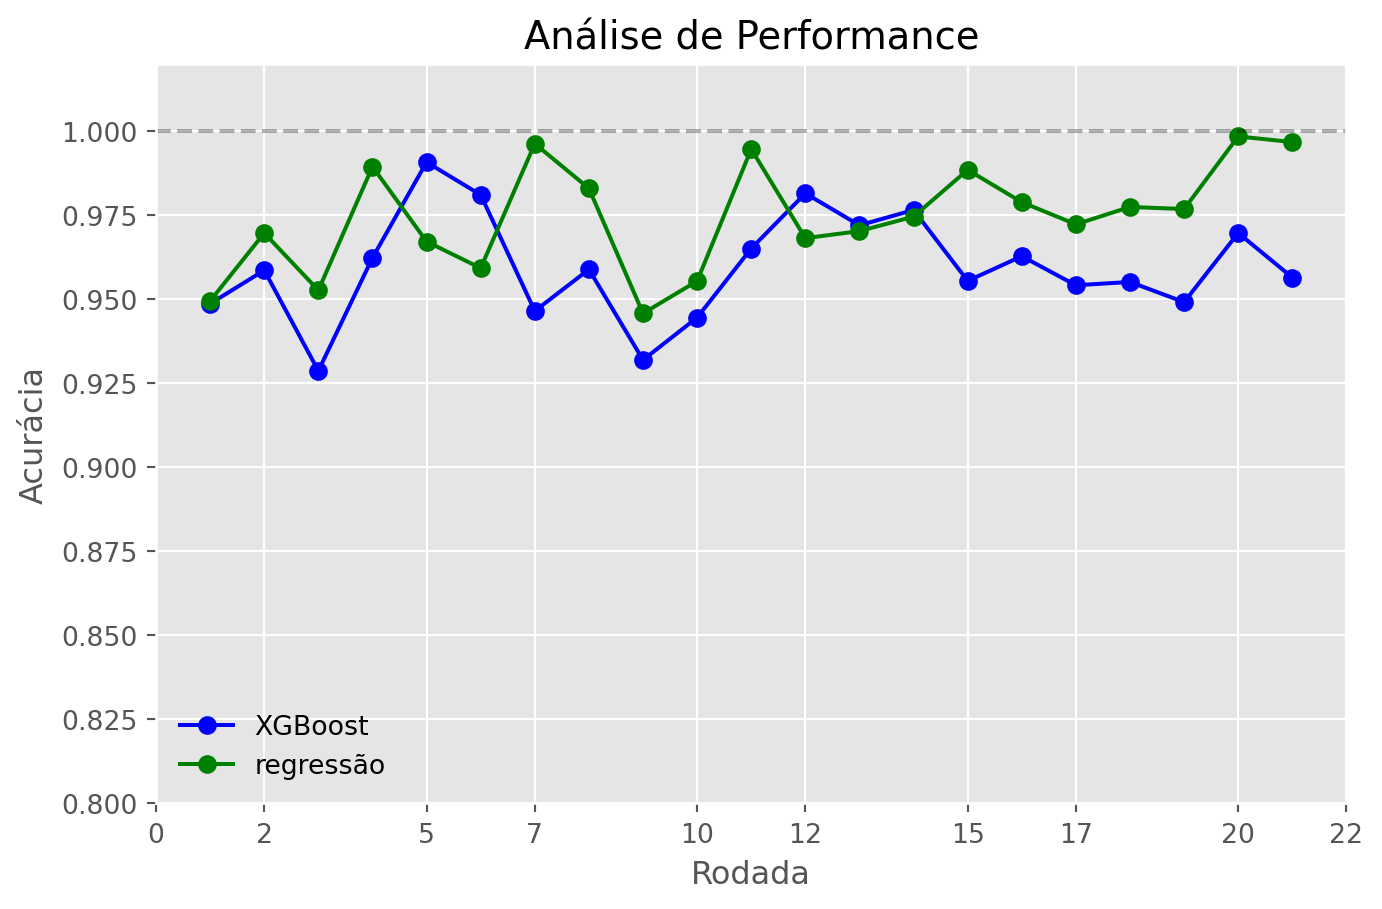
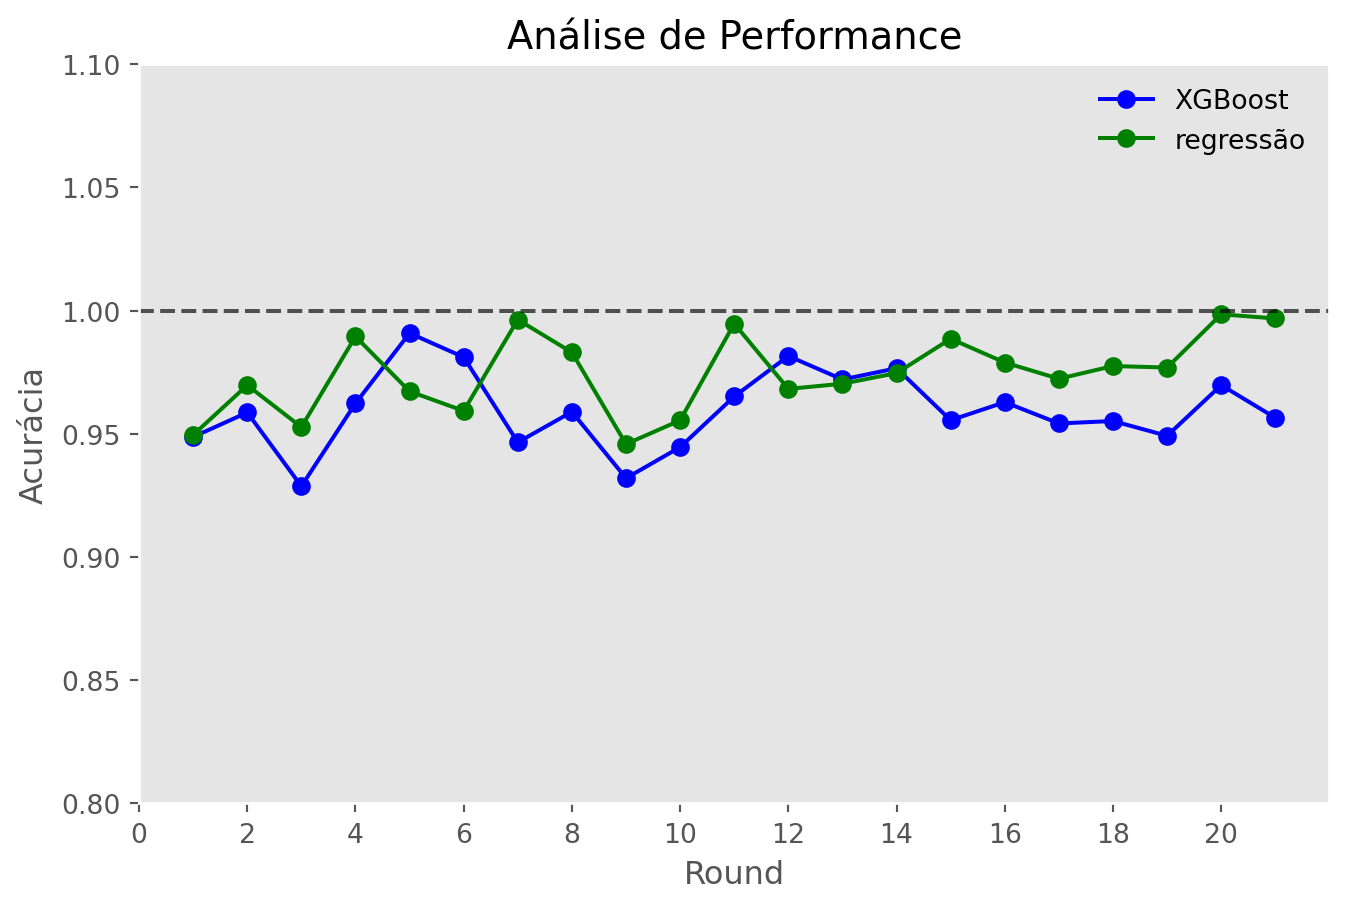
Atualizando texto:

diff --git a/projects/Conteúdos Próprios/Gradient Boosting com XGBoost Aplicado à Séries Temporais/qmd_file.html b/projects/Conteúdos Próprios/Gradient Boosting com XGBoost Aplicado à Séries Temporais/qmd_file.html
@@ -197,13 +197,13 @@ code span.wa { color: #60a0b0; font-weight: bold; font-style: italic; } /* Warni
 <p>Dessa forma, cada árvore se especializou em aprender a “consertar” os erros das arvores que vieram antes. Voltando a ideia de regressão não paramétrica, o modelo inicial dado é:</p>
 <p><span class="math display">\[y_{i} = r_{1}(x_{i}) + \epsilon_{1i} = tree_{1}(x_{i}) + \epsilon_{1i}\]</span></p>
 <p>A árvore 2 é treinanda com os resíduos <span class="math inline">\(\epsilon_{1}\)</span> da árvore 1:</p>
-<p><span class="math display">\[(y_{i}-tree_{1}) = \epsilon_{1i} = r_{2}(x_{i}) + \epsilon_{2i} = tree_{2}(x_{i}) + \epsilon_{2i}\]</span></p>
+<p><span class="math display">\[(y_{i}-tree_{1}(x_{i})) = \epsilon_{1i} = r_{2}(x_{i}) + \epsilon_{2i} = tree_{2}(x_{i}) + \epsilon_{2i}\]</span></p>
 <p>Por fim, a árvore 3 é treinada com os resíduos da árvore 2, isso é:</p>
-<p><span class="math display">\[(y_{i}-tree_{1}) - tree_{2}(x_{i}) = \epsilon_{1i} = r_{3}(x_{i}) + \epsilon_{3i} = tree_{3}(x_{i}) + \epsilon_{3i}\]</span></p>
+<p><span class="math display">\[(y_{i}-tree_{1}(x_{i})) - tree_{2}(x_{i}) = \epsilon_{1i} = r_{3}(x_{i}) + \epsilon_{3i} = tree_{3}(x_{i}) + \epsilon_{3i}\]</span></p>
 <p>A idéia intuitiva é que se adicione novas árvores conforme isso reduza os erros em teste, até que não seja possível mais entender os padrões em <span class="math inline">\(\epsilon_{q}\)</span>.</p>
-<p>Como o modelo em questão parou em <span class="math inline">\(\epsilon_{3}\)</span>, isso é, assume-se que <span class="math inline">\(\epsilon_{3}\)</span> não tem padrão, é um mero rúido, pode-se reescrever a equação acima como:</p>
-<p><span class="math display">\[y_{i}-tree_{1} - tree_{2}(x_{i}) - tree_{3}(x_{i}) = \epsilon_{3i}\]</span></p>
-<p><span class="math display">\[y_{i} = tree_{1} + tree_{2}(x_{i}) + tree_{3}(x_{i}) + \epsilon_{3i}\]</span></p>
+<p>Pode-se reescrever a equação acima como:</p>
+<p><span class="math display">\[y_{i}-tree_{1}(x_{i}) - tree_{2}(x_{i}) - tree_{3}(x_{i}) = \epsilon_{3i}\]</span></p>
+<p><span class="math display">\[y_{i} = tree_{1}(x_{i}) + tree_{2}(x_{i}) + tree_{3}(x_{i}) + \epsilon_{3i}\]</span></p>
 <p>Ou seja, a previsão da i-esima observação <span class="math inline">\(y_{i}\)</span> é a soma das previsões das árvores. Do ponto de vista da regressão não paramétrica, o modelo é dado por:</p>
 <p><span class="math display">\[y_{i} = r(x_{i}) + \epsilon_{i} = \sum^{q}_{i=1}tree_{i}(x_i) + \epsilon_{i}\]</span></p>
 <p>Onde cada árvore <span class="math inline">\(tree_i\)</span> foi treinada em paralelo.</p>
@@ -404,7 +404,7 @@ regressão vence: 16 (76.19 %)</code></pre>
 <p>Como pode ser visto, o XGBoost perfoma acima da regressão linear em somente 5 de 21 casos (23%). Será que a regressão realmente performa acima ou esse valor pode ter vindo do acaso? Bom, testa-se a hipótese de que a regressão linear tem probabilidade 50% de vencer o XGBoost.</p>
 <div class="cell" data-execution_count="14">
 <div class="cell-output cell-output-display">
-<p><img src="qmd_file_files/figure-html/cell-15-output-1.png" width="691" height="455"></p>
+<p><img src="qmd_file_files/figure-html/cell-15-output-1.png" width="674" height="455"></p>
 </div>
 </div>
 <div class="cell" data-execution_count="15">
@@ -682,14 +682,18 @@ regressão vence: 9 (42.86 %)</code></pre>
 <span id="cb26-3"><a href="#cb26-3" aria-hidden="true" tabindex="-1"></a></span>
 <span id="cb26-4"><a href="#cb26-4" aria-hidden="true" tabindex="-1"></a>ax.plot(acc_xgb_3, <span class="st">'b-o'</span>, label<span class="op">=</span><span class="st">'XGBoost'</span>)</span>
 <span id="cb26-5"><a href="#cb26-5" aria-hidden="true" tabindex="-1"></a>ax.plot(acc_reg_3, <span class="st">'g-o'</span>, label<span class="op">=</span><span class="st">'Regressão'</span>)</span>
-<span id="cb26-6"><a href="#cb26-6" aria-hidden="true" tabindex="-1"></a></span>
-<span id="cb26-7"><a href="#cb26-7" aria-hidden="true" tabindex="-1"></a>plt.ylim(<span class="dv">0</span>, <span class="fl">1.1</span>)</span>
-<span id="cb26-8"><a href="#cb26-8" aria-hidden="true" tabindex="-1"></a>plt.axhline(y<span class="op">=</span><span class="dv">1</span>, color<span class="op">=</span><span class="st">'k'</span>, alpha<span class="op">=</span><span class="fl">.5</span>, ls<span class="op">=</span><span class="st">'--'</span>)</span>
-<span id="cb26-9"><a href="#cb26-9" aria-hidden="true" tabindex="-1"></a>plt.legend(frameon<span class="op">=</span><span class="va">False</span>)</span>
-<span id="cb26-10"><a href="#cb26-10" aria-hidden="true" tabindex="-1"></a>plt.title(<span class="st">"Análise de Performance"</span>)</span>
-<span id="cb26-11"><a href="#cb26-11" aria-hidden="true" tabindex="-1"></a>plt.show()</span></code><button title="Copy to Clipboard" class="code-copy-button"><i class="bi"></i></button></pre></div>
+<span id="cb26-6"><a href="#cb26-6" aria-hidden="true" tabindex="-1"></a>plt.ylim(<span class="fl">.8</span>, <span class="fl">1.1</span>)</span>
+<span id="cb26-7"><a href="#cb26-7" aria-hidden="true" tabindex="-1"></a>plt.axhline(y<span class="op">=</span><span class="dv">1</span>, color<span class="op">=</span><span class="st">'k'</span>, alpha<span class="op">=</span><span class="fl">.5</span>, ls<span class="op">=</span><span class="st">'--'</span>)</span>
+<span id="cb26-8"><a href="#cb26-8" aria-hidden="true" tabindex="-1"></a>plt.legend(frameon<span class="op">=</span><span class="va">False</span>)</span>
+<span id="cb26-9"><a href="#cb26-9" aria-hidden="true" tabindex="-1"></a></span>
+<span id="cb26-10"><a href="#cb26-10" aria-hidden="true" tabindex="-1"></a>plt.xticks(np.arange(<span class="dv">0</span>, <span class="dv">22</span>, <span class="dv">2</span>))</span>
+<span id="cb26-11"><a href="#cb26-11" aria-hidden="true" tabindex="-1"></a>plt.xlabel(<span class="st">"Round"</span>)</span>
+<span id="cb26-12"><a href="#cb26-12" aria-hidden="true" tabindex="-1"></a>plt.ylabel(<span class="st">"Acurácia"</span>)</span>
+<span id="cb26-13"><a href="#cb26-13" aria-hidden="true" tabindex="-1"></a>plt.title(<span class="st">"Análise de Performance"</span>)</span>
+<span id="cb26-14"><a href="#cb26-14" aria-hidden="true" tabindex="-1"></a>plt.grid(<span class="va">False</span>)</span>
+<span id="cb26-15"><a href="#cb26-15" aria-hidden="true" tabindex="-1"></a>plt.show()</span></code><button title="Copy to Clipboard" class="code-copy-button"><i class="bi"></i></button></pre></div>
 <div class="cell-output cell-output-display">
-<p><img src="qmd_file_files/figure-html/cell-29-output-1.png" width="645" height="434"></p>
+<p><img src="qmd_file_files/figure-html/cell-29-output-1.png" width="674" height="455"></p>
 </div>
 </div>
 <div class="cell" data-execution_count="29">
@@ -704,11 +708,47 @@ Não há evidências para dizer que o A é o melhor modelo
 p valor:  0.332</code></pre>
 </div>
 </div>
-<p>Observa-se um p-valor de 0.4%. Isso é, é possível rejeitar a hipótese de que os dois modelos tem performance semelhante e, portanto, não foi pelo acaso que o XGBoost performou acima da regressão linear.</p>
-<p>Vizualizando o último modelo vindo da escala log pra ver como está “visualmente” o modelo:</p>
+<p>Observa-se um p-valor de 33%. Isso é, apesar de ter performado acima da Regressão Linear, não há evidências para dizermos que o XGBoost é melhor do que a Regressão. O que, em termos práticos, quer dizer que para esse dataset, uma regressão linear vai ter performance similar a regressões não paramétricas. O XGBoost pode, ainda, ganhar algumas covariáveis, defasagens e etc. De todo jeito, é um bom modelo a ter na caixa de ferramentas de cientista de dados.</p>
+<p>A título de comparação, abaixo é possível ver a performance dos 3 XGBoost treinados ao longo do texto:</p>
 <div class="cell" data-execution_count="30">
+<div class="sourceCode cell-code" id="cb29"><pre class="sourceCode python code-with-copy"><code class="sourceCode python"><span id="cb29-1"><a href="#cb29-1" aria-hidden="true" tabindex="-1"></a><span class="co">#echo: True</span></span>
+<span id="cb29-2"><a href="#cb29-2" aria-hidden="true" tabindex="-1"></a>f, ax <span class="op">=</span> plt.subplots(figsize<span class="op">=</span>(<span class="dv">8</span>, <span class="dv">5</span>))</span>
+<span id="cb29-3"><a href="#cb29-3" aria-hidden="true" tabindex="-1"></a></span>
+<span id="cb29-4"><a href="#cb29-4" aria-hidden="true" tabindex="-1"></a>ax.plot(acc_xgb_1, <span class="st">'b-o'</span>, alpha<span class="op">=</span><span class="fl">.5</span>, label<span class="op">=</span><span class="st">'XGBoost 1'</span>)</span>
+<span id="cb29-5"><a href="#cb29-5" aria-hidden="true" tabindex="-1"></a>ax.plot(acc_xgb_2, <span class="st">'r-o'</span>, alpha<span class="op">=</span><span class="fl">.5</span>, label<span class="op">=</span><span class="st">'XGBoost 2'</span>)</span>
+<span id="cb29-6"><a href="#cb29-6" aria-hidden="true" tabindex="-1"></a>ax.plot(acc_xgb_3, <span class="st">'g-o'</span>, alpha<span class="op">=</span><span class="fl">.5</span>, label<span class="op">=</span><span class="st">'XGBoost 3'</span>)</span>
+<span id="cb29-7"><a href="#cb29-7" aria-hidden="true" tabindex="-1"></a></span>
+<span id="cb29-8"><a href="#cb29-8" aria-hidden="true" tabindex="-1"></a>plt.ylim(<span class="fl">.8</span>, <span class="fl">1.1</span>)</span>
+<span id="cb29-9"><a href="#cb29-9" aria-hidden="true" tabindex="-1"></a>plt.axhline(y<span class="op">=</span><span class="dv">1</span>, color<span class="op">=</span><span class="st">'k'</span>, alpha<span class="op">=</span><span class="fl">.5</span>, ls<span class="op">=</span><span class="st">'--'</span>)</span>
+<span id="cb29-10"><a href="#cb29-10" aria-hidden="true" tabindex="-1"></a>plt.legend(frameon<span class="op">=</span><span class="va">False</span>)</span>
+<span id="cb29-11"><a href="#cb29-11" aria-hidden="true" tabindex="-1"></a></span>
+<span id="cb29-12"><a href="#cb29-12" aria-hidden="true" tabindex="-1"></a>plt.xticks(np.arange(<span class="dv">0</span>, <span class="dv">22</span>, <span class="dv">2</span>))</span>
+<span id="cb29-13"><a href="#cb29-13" aria-hidden="true" tabindex="-1"></a>plt.xlabel(<span class="st">"Round"</span>)</span>
+<span id="cb29-14"><a href="#cb29-14" aria-hidden="true" tabindex="-1"></a>plt.ylabel(<span class="st">"Acurácia"</span>)</span>
+<span id="cb29-15"><a href="#cb29-15" aria-hidden="true" tabindex="-1"></a>plt.title(<span class="st">"Análise de Performance"</span>)</span>
+<span id="cb29-16"><a href="#cb29-16" aria-hidden="true" tabindex="-1"></a>plt.grid(<span class="va">False</span>)</span>
+<span id="cb29-17"><a href="#cb29-17" aria-hidden="true" tabindex="-1"></a>plt.show()</span></code><button title="Copy to Clipboard" class="code-copy-button"><i class="bi"></i></button></pre></div>
 <div class="cell-output cell-output-display">
-<p><img src="qmd_file_files/figure-html/cell-31-output-1.png" width="658" height="435"></p>
+<p><img src="qmd_file_files/figure-html/cell-31-output-1.png" width="674" height="455"></p>
+</div>
+</div>
+<p>Ficando nítido o ganho de performance com o tratamento da tendência. Vizualizando o último modelo vindo da escala log pra ver como está “visualmente” o modelo:</p>
+<div class="cell" data-execution_count="31">
+<div class="sourceCode cell-code" id="cb30"><pre class="sourceCode python code-with-copy"><code class="sourceCode python"><span id="cb30-1"><a href="#cb30-1" aria-hidden="true" tabindex="-1"></a>y_train <span class="op">=</span> df.iloc[index[<span class="dv">0</span>]].copy()</span>
+<span id="cb30-2"><a href="#cb30-2" aria-hidden="true" tabindex="-1"></a>y_test <span class="op">=</span> df.iloc[index[<span class="dv">1</span>]].copy()</span>
+<span id="cb30-3"><a href="#cb30-3" aria-hidden="true" tabindex="-1"></a></span>
+<span id="cb30-4"><a href="#cb30-4" aria-hidden="true" tabindex="-1"></a>f, ax <span class="op">=</span> plt.subplots(figsize<span class="op">=</span>(<span class="dv">8</span>, <span class="dv">5</span>))</span>
+<span id="cb30-5"><a href="#cb30-5" aria-hidden="true" tabindex="-1"></a>plt.plot(y_train, <span class="st">'k'</span>, label<span class="op">=</span><span class="st">'Treino'</span>)</span>
+<span id="cb30-6"><a href="#cb30-6" aria-hidden="true" tabindex="-1"></a>plt.plot(y_test, <span class="st">'r--'</span>, label<span class="op">=</span><span class="st">'Teste'</span>)</span>
+<span id="cb30-7"><a href="#cb30-7" aria-hidden="true" tabindex="-1"></a>plt.plot(y_test.index, y_xgb_pred[<span class="op">-</span><span class="dv">12</span>:], <span class="st">'b--'</span>, label<span class="op">=</span><span class="st">'XGBoost'</span>)</span>
+<span id="cb30-8"><a href="#cb30-8" aria-hidden="true" tabindex="-1"></a></span>
+<span id="cb30-9"><a href="#cb30-9" aria-hidden="true" tabindex="-1"></a>plt.plot(y_test.index, y_reg_pred[<span class="op">-</span><span class="dv">12</span>:], <span class="st">'g--'</span>, label<span class="op">=</span><span class="st">'Regressão'</span>)</span>
+<span id="cb30-10"><a href="#cb30-10" aria-hidden="true" tabindex="-1"></a></span>
+<span id="cb30-11"><a href="#cb30-11" aria-hidden="true" tabindex="-1"></a>plt.legend(frameon<span class="op">=</span><span class="va">False</span>)</span>
+<span id="cb30-12"><a href="#cb30-12" aria-hidden="true" tabindex="-1"></a>plt.title(<span class="st">"Série Temporal"</span>)</span>
+<span id="cb30-13"><a href="#cb30-13" aria-hidden="true" tabindex="-1"></a>plt.show()</span></code><button title="Copy to Clipboard" class="code-copy-button"><i class="bi"></i></button></pre></div>
+<div class="cell-output cell-output-display">
+<p><img src="qmd_file_files/figure-html/cell-32-output-1.png" width="658" height="435"></p>
 </div>
 </div>
 <p>Agora, sim, com “carinha” de modelo de série temporal.</p>
